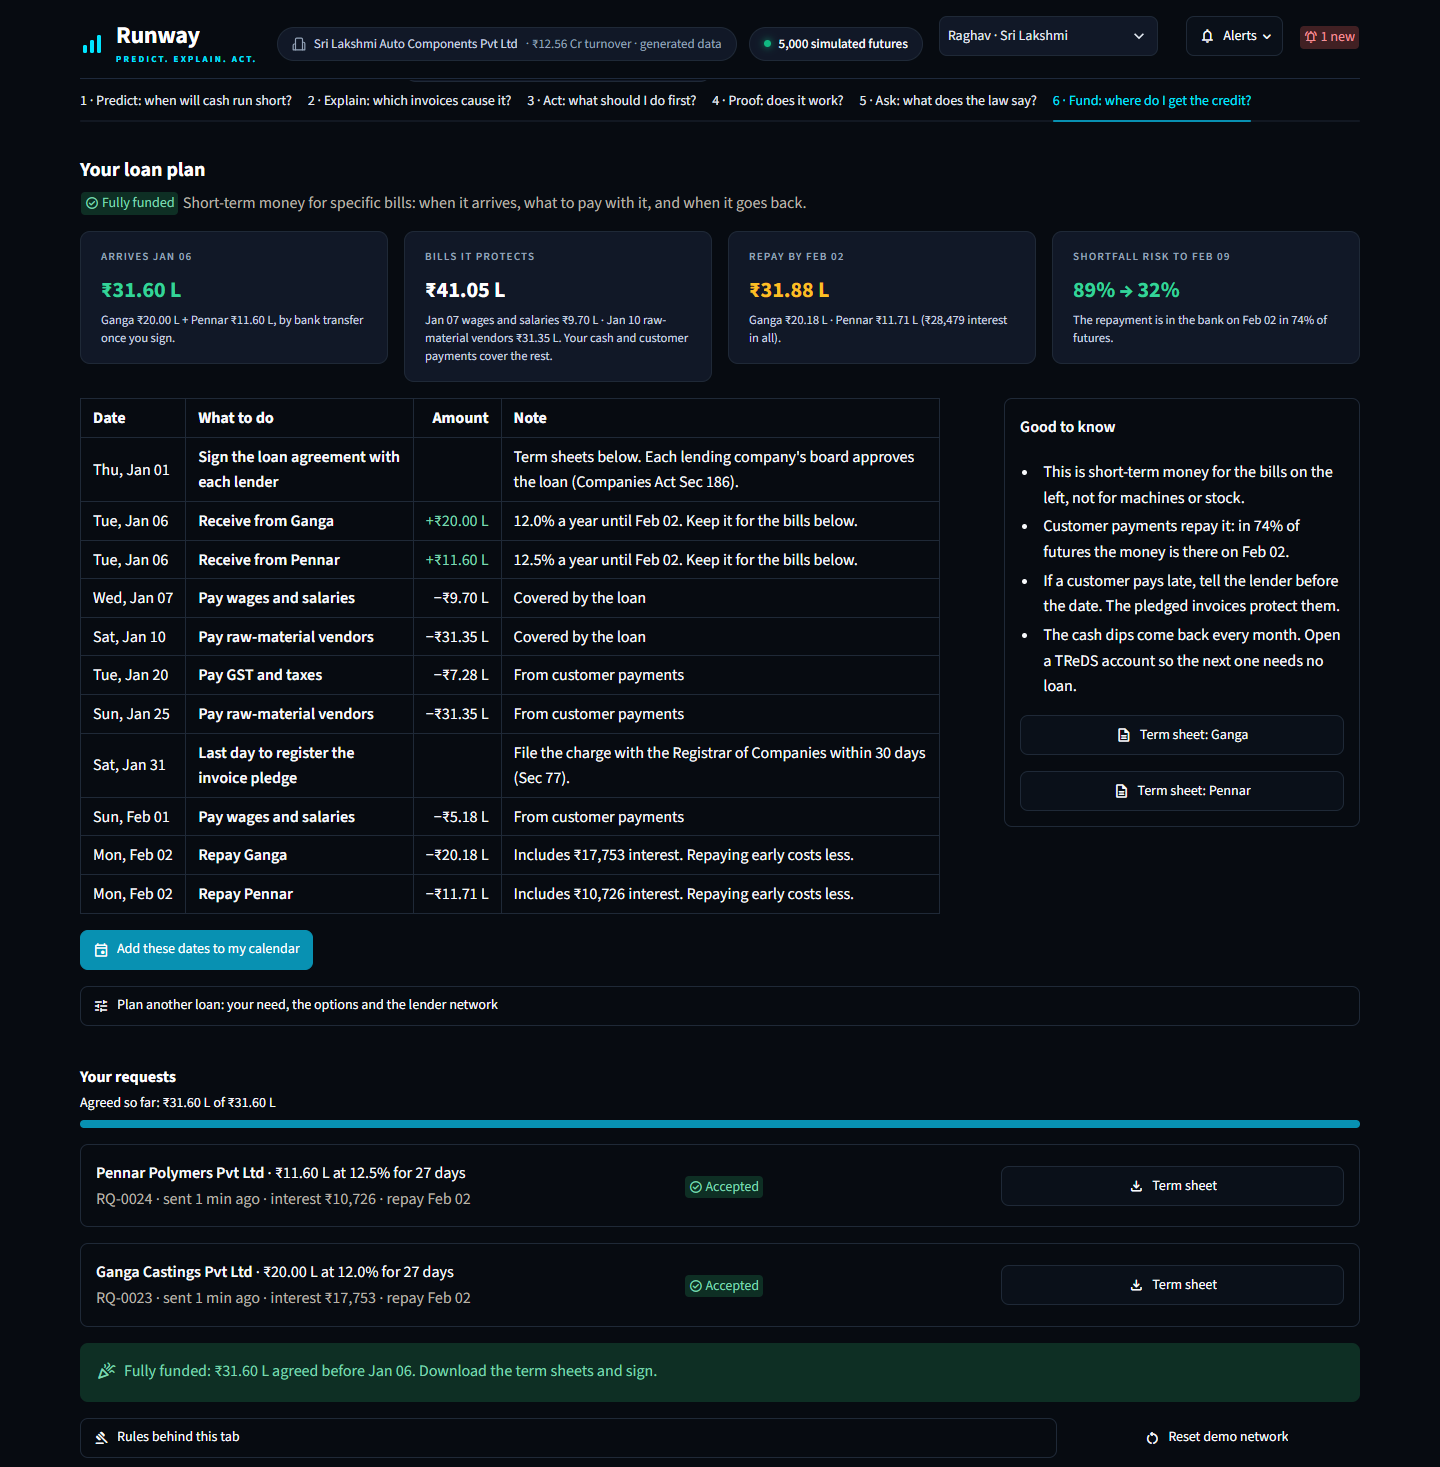
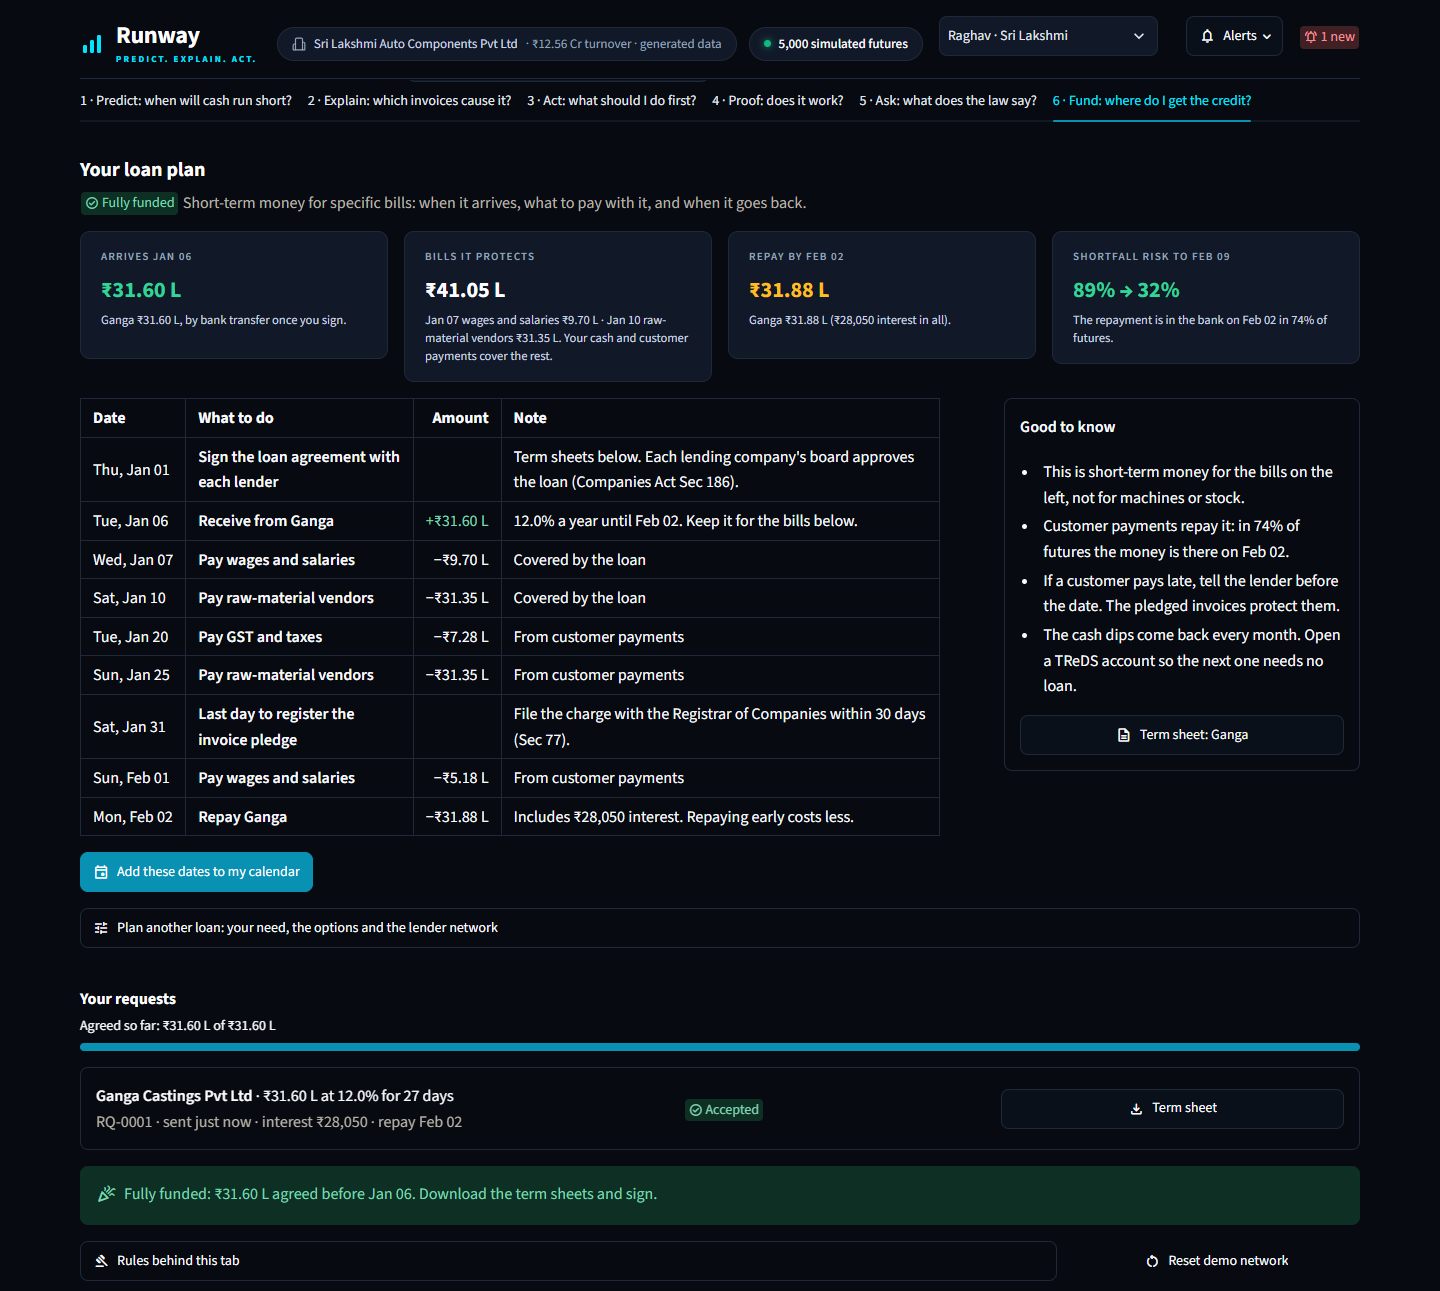
feat(fund): Ganga can cover the whole loan, so one acceptance funds Raghav
Ganga Castings now offers Rs 32 L (its generated ledger has more spare cash: Runway's safe amount
is Rs 37.37 L for 45 days), so the demo needs one request and one acceptance. Pennar still fits as
a second lender; Yamuna and Palar still show which condition fails.

diff --git a/tests/test_funding.py b/tests/test_funding.py
@@ -143,10 +143,12 @@ class TestLendingNetwork(unittest.TestCase):
 
     def test_split_fills_cheapest_first(self):
         lenders = [self.net.lender("pennar"), self.net.lender("ganga")]
-        parts = split_amount(3_160_000, lenders)
-        self.assertEqual([(x.lid, p) for x, p in parts], [("ganga", 2_000_000), ("pennar", 1_160_000)])
+        parts = split_amount(3_160_000, lenders)                 # Ganga (cheapest) covers it alone
+        self.assertEqual([(x.lid, p) for x, p in parts], [("ganga", 3_160_000)])
+        parts = split_amount(4_000_000, lenders)
+        self.assertEqual([(x.lid, p) for x, p in parts], [("ganga", 3_200_000), ("pennar", 800_000)])
         parts = split_amount(5_000_000, lenders)
-        self.assertEqual(sum(p for _, p in parts), 3_500_000)    # not enough between them
+        self.assertEqual(sum(p for _, p in parts), 4_700_000)    # not enough between them
         self.assertEqual(split_amount(0, lenders), [])
 
     def test_request_accept_reduces_available(self):
@@ -156,7 +158,7 @@ class TestLendingNetwork(unittest.TestCase):
         done = self.net.respond(r.rid, "accept")
         self.assertEqual(done.status, ACCEPTED)
         self.assertEqual(done.agreed_rate, 0.12)
-        self.assertEqual(self.net.lender("ganga").available, 500_000)
+        self.assertEqual(self.net.lender("ganga").available, 1_700_000)
         with self.assertRaises(ValueError):
             self.net.respond(r.rid, "decline")                   # already answered
 

diff --git a/funding/network.py b/funding/network.py
@@ -43,7 +43,7 @@ class Lender:
 DEMO_LENDERS: Tuple[Lender, ...] = (
     Lender("ganga", "Ganga Castings Pvt Ltd", "Meera Rao", "Coimbatore", "Aluminium castings",
            "Two OEMs paid a quarter's invoices early and the next furnace upgrade is in March.",
-           2_000_000, 45, 0.110, True, 0.70),
+           3_200_000, 45, 0.110, True, 0.70),
     Lender("pennar", "Pennar Polymers Pvt Ltd", "Arjun Reddy", "Nellore", "Plastic auto parts",
            "A customer paid an advance and a machine purchase moved to February.",
            1_500_000, 30, 0.115, False, 0.65),

diff --git a/app/main.py b/app/main.py
@@ -79,7 +79,7 @@ class Business:
     lender_id: Optional[str] = None
 
 
-_LENDER_LEDGERS = {"ganga": (11, 3_000_000), "pennar": (7, 1_500_000), "yamuna": (21, 5_000_000),
+_LENDER_LEDGERS = {"ganga": (11, 4_000_000), "pennar": (7, 1_500_000), "yamuna": (21, 5_000_000),
                    "palar": (33, 2_000_000)}
 BORROWER_KEY = "sri-lakshmi"
 BUSINESSES = {BORROWER_KEY: Business(BORROWER_KEY, "Sri Lakshmi Auto Components Pvt Ltd", "Raghav", 42)}

diff --git a/README.md b/README.md
@@ -74,7 +74,7 @@ a reminder the day before each date.
 
 **The lender's side: the same dashboard, with a Lend tab.** Every lender is a Runway business too
 (`?as=ganga`, or *Signed in as* at the top), with its own generated ledger and forecast, so Runway knows how
-much it can safely lend (₹27.37 L for 45 days for Ganga Castings, keeping ₹5 L in the bank in 9 of 10
+much it can safely lend (₹37.37 L for 45 days for Ganga Castings, keeping ₹5 L in the bank in 9 of 10
 futures). A request that fits its conditions lights up the bell, where it can be accepted in one click. The
 Lend tab shows the terms, the borrower's on-time score (only if shared), a summary of pledged invoices
 (customer names only after accepting) and what the loan does to the lender's own shortfall risk. After
